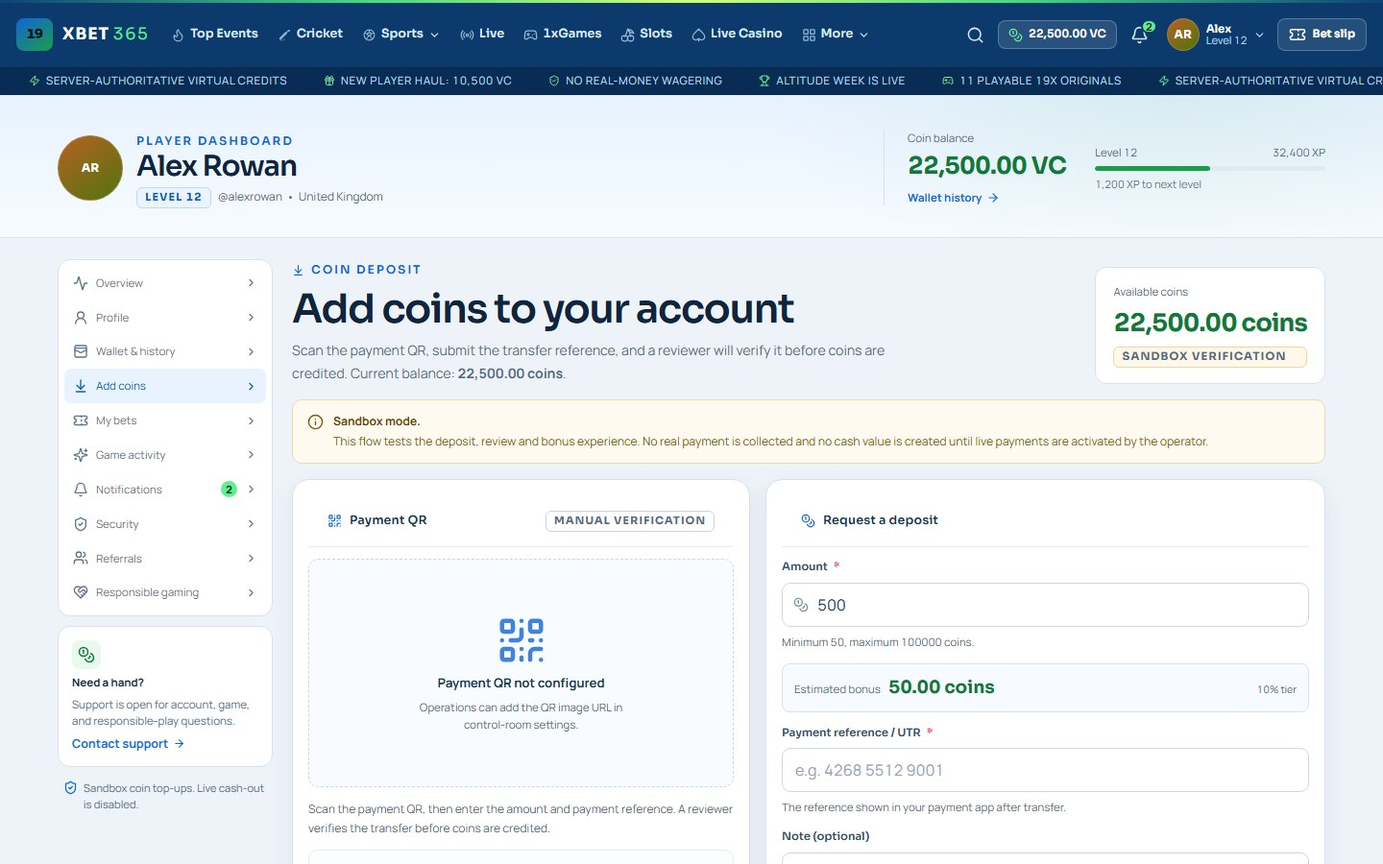
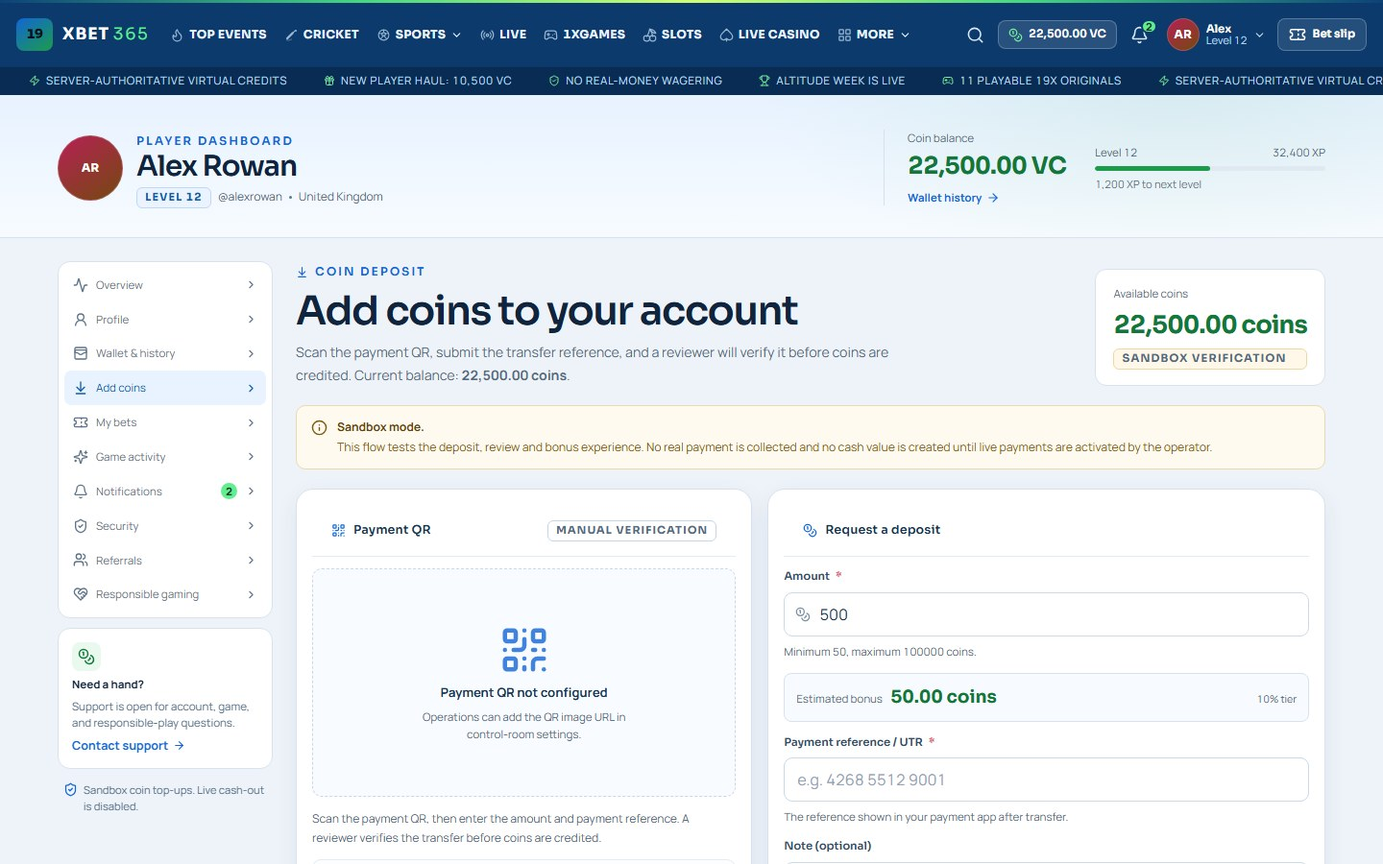
Tighten spacing rhythm, bold navigation and Master-only credentials
Standardises public and admin spacing, makes the desktop navigation bold uppercase like the reference, and restricts staff login issuance to Master Admin while allowing scoped administrators to manage users and the game catalogue. Refreshes screenshots and access/security evidence.

diff --git a/frontend/src/pages/admin/Accounts.tsx b/frontend/src/pages/admin/Accounts.tsx
@@ -8,7 +8,7 @@ import { api } from "../../lib/api";
 import type { AdminAccount } from "../../types";
 import { useAuth } from "../../state/AuthContext";
 import { useToast } from "../../state/ToastContext";
-import { Avatar, Badge, Button, EmptyState, ErrorState, Field, Input, Modal, Select, Skeleton, Textarea } from "../../components/UI";
+import { Avatar, Badge, Button, CopyButton, EmptyState, ErrorState, Field, Input, Modal, Select, Skeleton, Textarea } from "../../components/UI";
 import { AdminHeader, AdminScopePill } from "./AdminLayout";
 import { classNames, dateShort, number, vc } from "../../lib/format";
 
@@ -40,12 +40,9 @@ export function AdminAccountsPage() {
   const [actionError, setActionError] = useState<string | null>(null);
   const [invitations, setInvitations] = useState<{ id: string; email: string; display_name: string; role_code: string; status: string; created_at: string; expires_at: string; parent_name: string; invited_by_name: string; role_name: string }[]>([]);
 
-  const inviteRoles = useMemo(() => {
-    if (user?.role === "master_admin") return ["admin", "sub_admin", "agent", "player"];
-    if (user?.role === "admin") return ["sub_admin", "agent", "player"];
-    if (user?.role === "sub_admin") return ["agent", "player"];
-    return ["player"];
-  }, [user?.role]);
+  const inviteRoles = useMemo(() => (
+    user?.role === "master_admin" ? ["admin", "sub_admin", "agent", "player"] : []
+  ), [user?.role]);
 
   const load = async () => {
     setLoading(true);
@@ -155,8 +152,9 @@ export function AdminAccountsPage() {
         kicker="Account operations"
         title="Accounts & access"
         body="Search the scoped network, manage restrictions, and record every virtual-credit adjustment."
-        actions={<><AdminScopePill /><Button variant="lime" size="sm" icon={<UserPlus size={15} />} onClick={() => { setInviteOpen(true); setInviteResult(null); setActionError(null); }}>Create account</Button></>}
+        actions={<><AdminScopePill />{isMaster && <Button variant="lime" size="sm" icon={<UserPlus size={15} />} onClick={() => { setInviteOpen(true); setInviteResult(null); setActionError(null); }}>Issue credentials</Button>}</>}
       />
+      {!isMaster && <div className="admin-callout"><ShieldCheck size={17} /><div><strong>Staff credentials are issued by Master Admin.</strong><span>You can manage accounts and game operations within your authorized branch; creating new staff logins is restricted to the Master Admin.</span></div></div>}
       <div className="admin-toolbar panel">
         <form className="admin-search" onSubmit={(event) => { event.preventDefault(); setPage(1); setAppliedQuery(query); }}>
           <Search size={16} /><Input value={query} onChange={(event) => setQuery(event.target.value)} placeholder="Search name, email, username or referral code" aria-label="Search accounts" />
@@ -200,14 +198,14 @@ export function AdminAccountsPage() {
         )}
       </div>
 
-      <section className="panel invitations-panel">
-        <div className="panel-head"><span><Mail size={15} /> Pending invitations</span><Button variant="ghost" size="sm" onClick={() => { setInviteOpen(true); setInviteResult(null); }} icon={<UserPlus size={14} />}>New invitation</Button></div>
+      {isMaster && <section className="panel invitations-panel">
+        <div className="panel-head"><span><Mail size={15} /> Pending invitations</span><Button variant="ghost" size="sm" onClick={() => { setInviteOpen(true); setInviteResult(null); setActionError(null); }} icon={<UserPlus size={14} />}>Issue credentials</Button></div>
         {!invitations.length ? <p className="muted-small">No invitations recorded in your scope.</p> : (
           <div className="data-table-wrap"><table className="data-table"><thead><tr><th>Invitee</th><th>Role</th><th>Invited by</th><th>Expires</th><th>Status</th><th /></tr></thead><tbody>
             {invitations.map((item) => <tr key={item.id}><td><strong>{item.display_name}</strong><span className="row-sub">{item.email}</span></td><td><Badge tone="outline">{item.role_name}</Badge></td><td className="muted-cell">{item.invited_by_name}</td><td className="muted-cell">{dateShort(item.expires_at)}</td><td><span className={classNames("status-pill", item.status)}>{item.status}</span></td><td>{item.status === "pending" && <button className="text-btn" onClick={() => revokeInvitation(item.id)}>Revoke</button>}</td></tr>)}
           </tbody></table></div>
         )}
-      </section>
+      </section>}
 
       <Modal open={!!selected} onClose={() => setSelected(null)} title={selected ? `Manage ${selected.displayName}` : "Manage account"} wide footer={<Button variant="secondary" onClick={() => setSelected(null)}>Close</Button>}>
         {selected && (
@@ -246,23 +244,25 @@ export function AdminAccountsPage() {
         )}
       </Modal>
 
-      <Modal open={inviteOpen} onClose={() => setInviteOpen(false)} title="Create account / invitation" footer={<Button variant="secondary" onClick={() => setInviteOpen(false)}>Close</Button>}>
+      <Modal open={inviteOpen} onClose={() => setInviteOpen(false)} title="Issue staff credentials" footer={<Button variant="secondary" onClick={() => setInviteOpen(false)}>Close</Button>}>
         {inviteResult ? (
           <div className="invite-result">
             <span className="success-icon"><Check size={22} /></span>
-            <h3>Temporary credentials</h3>
-            <p>Share these through an approved secure channel. The temporary password is shown once.</p>
+            <h3>Account credentials</h3>
+            <p>Give these credentials to the staff member through an approved secure channel. The temporary password is shown once.</p>
             <div className="credential-box"><span>{inviteResult.email}</span><strong>{inviteResult.temporaryPassword}</strong></div>
-            <Button variant="lime" size="sm" onClick={() => { setInviteResult(null); setInvite({ email: "", displayName: "", role: "player" }); }}>Create another</Button>
+            <CopyButton value={`${inviteResult.email} / ${inviteResult.temporaryPassword}`} label="Copy credentials" />
+            <Button variant="lime" size="sm" onClick={() => { setInviteResult(null); setInvite({ email: "", displayName: "", role: "player" }); }}>Issue another</Button>
           </div>
         ) : (
           <form className="invite-form" onSubmit={doInvite}>
+            <div className="invite-scope-note"><ShieldCheck size={15} /><span>Only Master Admin can create staff logins. The account is created immediately and the member can sign in with the generated credentials.</span></div>
             <Field label="Display name" required><Input value={invite.displayName} onChange={(event) => setInvite({ ...invite, displayName: event.target.value })} placeholder="Full name" minLength={2} required /></Field>
-            <Field label="Email" required><Input type="email" value={invite.email} onChange={(event) => setInvite({ ...invite, email: event.target.value })} placeholder="person@example.com" required /></Field>
+            <Field label="Email / login ID" required><Input type="email" value={invite.email} onChange={(event) => setInvite({ ...invite, email: event.target.value })} placeholder="person@example.com" required /></Field>
             <Field label="Role" required><Select value={invite.role} onChange={(event) => setInvite({ ...invite, role: event.target.value })}>{inviteRoles.map((item) => <option key={item} value={item}>{item.replace("_", " ")}</option>)}</Select></Field>
             {actionError && <div className="form-error">{actionError}</div>}
-            <Button variant="lime" loading={inviteBusy} type="submit" icon={<UserPlus size={15} />}>Create invitation</Button>
-            <p className="form-note">Invitees receive their role immediately but must change the temporary password after signing in. Role escalation is blocked by the server.</p>
+            <Button variant="lime" loading={inviteBusy} type="submit" icon={<UserPlus size={15} />}>Generate credentials</Button>
+            <p className="form-note">The temporary password must be changed after the first sign-in. Role escalation is blocked by the server.</p>
           </form>
         )}
       </Modal>

diff --git a/frontend/src/styles/bookmaker.css b/frontend/src/styles/bookmaker.css
@@ -40,7 +40,7 @@
 .bookmaker .header-shell { gap: 14px; }
 .bookmaker .logo-word { color: #ffffff; letter-spacing: .07em; }
 .bookmaker .logo-word span { color: #62ed91; }
-.bookmaker .nav-link { color: #d9e9f7; padding: 0 9px; }
+.bookmaker .nav-link { color: #eaf4ff; padding: 0 8px; font-size: .75rem; font-weight: 700; letter-spacing: .03em; text-transform: uppercase; }
 .bookmaker .nav-link:hover, .bookmaker .nav-link.active { color: #ffffff; }
 .bookmaker .nav-link .nav-icon { color: #b7d2ea; }
 .bookmaker .nav-link.active .nav-icon { color: #62ed91; }
@@ -654,7 +654,7 @@
 .bookmaker .deposit-notice.warning strong { color: #7d1d2c; }
 .bookmaker .deposit-grid { display: grid; grid-template-columns: minmax(0, .9fr) minmax(0, 1.1fr); gap: 16px; }
 .bookmaker .deposit-payment, .bookmaker .deposit-form-panel { padding: 16px; }
-.bookmaker .deposit-payment .panel-head, .bookmaker .deposit-form-panel .panel-head { margin-bottom: 12px; }
+.bookmaker .deposit-payment .panel-head, .bookmaker .deposit-form-panel .panel-head { margin-bottom: 12px; flex-wrap: wrap; gap: 6px; }
 .bookmaker .qr-frame { min-height: 238px; display: grid; place-items: center; border: 1px dashed #c7d8e8; border-radius: 10px; background: #f8fbff; padding: 12px; }
 .bookmaker .qr-frame img { width: min(100%, 230px); height: auto; display: block; border-radius: 8px; }
 .bookmaker .qr-placeholder { display: grid; justify-items: center; gap: 7px; text-align: center; color: #526a82; padding: 20px; }
@@ -819,10 +819,23 @@
 .bookmaker.auth-page .success-panel { background: #f2fbf4; border-color: #bfe4c9; }
 .bookmaker.auth-page .success-panel p { color: #526a82; }
 
-@media (max-width: 1400px) {
-  .bookmaker .nav-link { padding: 0 6px; font-size: .72rem; gap: 4px; }
+/* Consistent 8px rhythm for the public surfaces */
+.bookmaker .home-shell { padding-top: 32px; }
+.bookmaker .home-section { margin-top: 48px; }
+.bookmaker .quick-strip { gap: 10px; padding: 10px; }
+.bookmaker .game-grid { gap: 16px; }
+.bookmaker .sports-shell { gap: 16px; padding: 24px 0 64px; }
+.bookmaker .account-shell { gap: 24px; padding: 24px 0 64px; }
+.bookmaker .section-heading { gap: 24px; margin-bottom: 24px; }
+.bookmaker .deposit-page { gap: 20px; }
+
+@media (max-width: 1420px) {
+  .bookmaker .nav-link { padding: 0 5px; font-size: .68rem; gap: 4px; letter-spacing: .02em; }
   .bookmaker .nav-link .nav-icon { width: 13px; height: 13px; }
   .bookmaker .header-balance { display: none; }
+}
+@media (max-width: 560px) {
+  .bookmaker .page-shell, .bookmaker .narrow-shell { width: calc(100% - 32px); }
 }
 @media (max-width: 900px) {
   .bookmaker .header-shell { width: calc(100% - 20px); }

diff --git a/backend/src/routes/admin.js b/backend/src/routes/admin.js
@@ -449,7 +449,7 @@ router.post("/accounts/:id/revoke-sessions", requirePermission("security.view"),
 });
 
 // Staff, invitations ----------------------------------------------------------
-router.post("/staff", requirePermission("network.manage"), async (req, res, next) => {
+router.post("/staff", requireMaster, async (req, res, next) => {
   try {
     const email = String(req.body?.email || "").trim().toLowerCase();
     const displayName = String(req.body?.displayName || "").trim().slice(0, 60);
@@ -505,7 +505,7 @@ router.post("/staff", requirePermission("network.manage"), async (req, res, next
   }
 });
 
-router.get("/invitations", requirePermission("network.manage"), async (req, res, next) => {
+router.get("/invitations", requireMaster, async (req, res, next) => {
   try {
     const scope = await scoped(req);
     const result = await query(
@@ -526,7 +526,7 @@ router.get("/invitations", requirePermission("network.manage"), async (req, res,
   }
 });
 
-router.post("/invitations/:id/revoke", requirePermission("network.manage"), async (req, res, next) => {
+router.post("/invitations/:id/revoke", requireMaster, async (req, res, next) => {
   try {
     const scope = await scoped(req);
     const result = await withTransaction(async (client) => {

diff --git a/frontend/src/styles/admin.css b/frontend/src/styles/admin.css
@@ -528,3 +528,13 @@
 .admin-callout > div { display: grid; gap: 2px; }
 .admin-callout strong { color: #fff; font-size: .8rem; }
 .admin-callout span { color: var(--muted); font-size: .72rem; line-height: 1.5; }
+
+/* Spacing rhythm */
+.admin-page { gap: 20px; }
+.admin-page-head { gap: 24px; }
+.admin-stat-grid { gap: 14px; }
+.admin-dashboard-grid { gap: 16px; }
+
+.invite-scope-note { display: flex; align-items: flex-start; gap: 8px; padding: 10px 11px; border: 1px solid rgba(201,255,99,.18); border-radius: 8px; background: rgba(201,255,99,.04); color: var(--muted); font-size: .7rem; line-height: 1.5; }
+.invite-scope-note svg { flex: 0 0 auto; color: var(--lime); margin-top: 1px; }
+.invite-result .copy-btn, .invite-result .btn { margin-top: 2px; }

diff --git a/backend/db/seed.js b/backend/db/seed.js
@@ -32,7 +32,7 @@ const ROLES = [
     permissions: [
       "network.view.scope", "network.manage", "accounts.create.subadmin", "accounts.create.agent",
       "accounts.create.player", "accounts.suspend", "accounts.restore", "credits.adjust",
-      "games.view", "content.manage", "promotions.manage", "support.view", "support.manage",
+      "games.view", "games.manage", "content.manage", "promotions.manage", "support.view", "support.manage",
       "security.view", "audit.view.scope", "transfers.approve", "reports.view.scope",
       "notifications.broadcast", "system.view"
     ]

diff --git a/docs/19XBET365_HANDOFF.md b/docs/19XBET365_HANDOFF.md
@@ -9,6 +9,7 @@ A complete, independently branded virtual-credit gaming foundation with:
 - 11 server-authoritative playable 19X Originals;
 - registration/login/account lifecycle, virtual wallet, bet history, game activity, notifications, security, referrals, responsible-play tools, support, help and legal content;
 - Master Admin and delegated staff control room with scoped hierarchy, RBAC, credits, support, transfers, catalogue, content, audit, settings and health;
+- Master-only staff credential issuance with one-time login ID/password handoff; administrators can manage scoped users and games but cannot create staff logins or access Master-only settings, roles, deposits and credential controls;
 - PostgreSQL schema/seed, transactional wallet, immutable audit chain, settled-round immutability, session auth, rate limiting and a WebSocket activity channel;
 - server demo-settlement worker for 1X2 singles/accumulators, with generated final scores, notifications, wallet credits and audit events;
 - sandbox deposit/QR-request flow with Master Admin verification, configurable percentage bonuses, wallet ledger entries, notifications and audit events; live collection is hard-gated;
@@ -91,7 +92,7 @@ New registrations receive 10,500 VC. The seeded player starts at 22,500 VC with 
 ## Evidence inventory
 
 - Reference research screenshots are retained locally and excluded from the public repository; the comparison notes live in `docs/VISUAL_COMPARISON_REPORT.md`.
-- Product desktop captures: `capture/product/home-1440.jpeg`, `sports-1440.jpeg`, `live-1440.jpeg`, `casino-1440.jpeg`, `instant-1440.jpeg`, `dice-1440.jpeg`, `account-1440.jpeg`, `wallet-1440.jpeg`, `deposit-1440.jpeg`, `bets-1440.jpeg`, `promotions-1440.jpeg`, `tournaments-1440.jpeg`, `help-1440.jpeg`, `support-1440.jpeg`, `login-1440.jpeg`, `register-1440.jpeg`, `admin-dashboard-1440.jpeg`, `admin-deposits-1440.jpeg`.
+- Product desktop captures: `capture/product/home-1440.jpeg`, `sports-1440.jpeg`, `live-1440.jpeg`, `casino-1440.jpeg`, `instant-1440.jpeg`, `dice-1440.jpeg`, `account-1440.jpeg`, `wallet-1440.jpeg`, `deposit-1440.jpeg`, `bets-1440.jpeg`, `promotions-1440.jpeg`, `tournaments-1440.jpeg`, `help-1440.jpeg`, `support-1440.jpeg`, `login-1440.jpeg`, `register-1440.jpeg`, `admin-dashboard-1440.jpeg`, `admin-accounts-1440.jpeg`, `admin-deposits-1440.jpeg`.
 - Product mobile captures: `capture/product/home-390.jpeg`, `sports-390.jpeg`, `casino-390.jpeg`, `dice-390.jpeg`, `wallet-390.jpeg`, `deposit-390.jpeg`, `login-390.jpeg`, `admin-dashboard-390.jpeg`.
 - Reproducible capture: `scripts/capture-screenshots.mjs` (headless Edge, real API login, 1440×900 and 390×844).
 - Automated tests: `scripts/api-smoke.mjs`, `scripts/game-smoke.mjs`, `scripts/security-smoke.mjs`, `scripts/settlement-smoke.mjs`, `scripts/referral-smoke.mjs`.

diff --git a/docs/END_TO_END_TEST_REPORT.md b/docs/END_TO_END_TEST_REPORT.md
@@ -13,8 +13,8 @@
 | `scripts/settlement-smoke.mjs` | Passed across both settlement branches: two singles and a two-fold accumulator settled from generated final scores; winning/losing payouts and wallet balance reconciled | console output |
 | `scripts/deposit-smoke.mjs` | Passed: sandbox request, admin approval, 15% tier bonus, deposit/bonus ledger, cancellation, rejection and live-collection activation gate | console output |
 | `scripts/referral-smoke.mjs <code>` | Passed: referral registration starts 10,500; referred player's first dice round receives 1,000 VC; referee balance reflects reward | console output |
-| `scripts/capture-screenshots.mjs` | Passed: 26 product captures across 1440×900 and 390×844, player and Master Admin sessions | `capture/product/` |
-| Frontend `tsc --noEmit && vite build` | Passed | Vite production build, 1,649 modules |
+| `scripts/capture-screenshots.mjs` | Passed: 27 product captures across 1440×900 and 390×844, player and Master Admin sessions | `capture/product/` |
+| Frontend `tsc --noEmit && vite build` | Passed | Vite production build, 1,650 modules |
 | Playwright real-user journey | Passed | 32/32 checks across the logged-out game gate, registration, bet placement, Dice Roll, wallet, bets, support, mobile dialogs, auth and admin |
 | Playwright deposit journey | Passed | 11/11 checks: sandbox notice, QR placeholder, request, pending state, admin approval, bonus ledger and balance update |
 | Lighthouse desktop audit | Passed | 100 accessibility / 100 best practices / 100 SEO on home, sports, casino, login, account, wallet, deposit, support, promotions, tournaments, help, game detail, register and admin |
@@ -84,7 +84,7 @@ The demo database was reseeded after this verification pass, so the handoff star
 ### 8. Evidence capture
 
 - `scripts/capture-screenshots.mjs` logs in through the real API, sets viewport metrics through DevTools, captures desktop player pages, mobile pages, signed-out auth pages and the Master Admin control room.
-- All 26 captures loaded real API data; interactive spot checks of the captured routes showed no console errors.
+- All 27 captures loaded real API data; interactive spot checks of the captured routes showed no console errors.
 - Demo identity and support addresses were cleaned from the legacy `astraplay.io` domain to `19xbet365.test` in seed, UI shortcuts, existing rows and documentation.
 
 ## Defects found and fixed

diff --git a/docs/ADMIN_ARCHITECTURE.md b/docs/ADMIN_ARCHITECTURE.md
@@ -40,6 +40,7 @@ Important permissions:
 | Hierarchy | `/admin/network` | recursive tree, role/status/balance, search | actor branch |
 | Accounts | `/admin/accounts` | search/filter/paginate, manage modal | actor branch |
 | Account actions | modal | suspend/restore, credit adjustment, role change, revoke sessions | target must be descendant; rank checks |
+| Staff credentials | `/admin/accounts` modal | create account/login ID, one-time temporary password, copy handoff; staff account is created immediately | **Master Admin only** |
 | Roles | `/admin/roles` | permission matrix, save per role | Master only |
 | Game catalogue | `/admin/games` | status, featured, badge/copy; no outcome edits | `games.view/manage` |
 | Content | `/admin/content` | page title/body/status; promotion title/terms/active | `content.manage`, `promotions.manage` |
@@ -58,7 +59,7 @@ Important permissions:
 - Master Admin cannot be suspended, demoted, or role-changed through the API.
 - Credit adjustments are limited to player accounts and require a reason of at least 8 characters.
 - Target accounts are checked against the actor's recursive scope.
-- Invitations can only grant roles below the inviter's authority.
+- Only the Master Admin can create any staff login or issue a temporary password. Administrators can manage scoped users and the game catalogue but cannot create staff accounts, issue credentials, change roles, open settings, review deposits or access other Master-only controls.
 - Transfer approval checks destination branch scope and records a reason.
 - All privileged changes append an audit event with actor, action, entity, before/after, IP, and hash chain.
 - Audit and settled rounds are protected by PostgreSQL triggers.
@@ -74,6 +75,8 @@ Important permissions:
 - `/api/admin/roles` and `/api/admin/transfers` return permission denied.
 - A player gets `staff_required` for `/api/admin/overview`.
 - Anonymous admin access is `401`.
+- Master credential issuance returns a one-time email/password; the new admin can access scoped accounts and the game catalogue but receives `403` for settings, roles and further staff issuance.
+- A branch admin is blocked from staff credential creation by `requireMaster`.
 
 ## Files
 

diff --git a/docs/UI_UX_AUDIT.md b/docs/UI_UX_AUDIT.md
@@ -44,6 +44,12 @@ The reference is attractive because it is **predictable**, not because it is lar
 - Darkened secondary ink from `#71869b`/`#7c90a4` to `#526a82`; positive amounts use `#14773a` instead of the lower-contrast lime text.
 - Increased mobile odds targets to 42px and kept all controls labelled in full words rather than unexplained abbreviations.
 
+### Navigation and spacing
+- Desktop navigation now follows the reference’s bold, compact hierarchy: **700 weight, uppercase labels, tightened letter spacing**, icon alignment and an emerald active underline.
+- Standardised the public vertical rhythm around 8px increments: 32px shell top, 48px section separation, 24px section-heading gap, 16px card grid gaps, 24px sports/account shell spacing and 16px mobile gutters.
+- Admin surfaces use a slightly denser rhythm (20px page gap, 14px stat grid, 16px dashboard gap) while retaining the distinct dark control-room theme.
+- Hero spacing was compressed so “Live right now” appears within the first desktop viewport; the mobile hero keeps its stacked layout without a forced minimum height.
+
 ### Navigation and icons
 - Original sport glyphs replace reused generic Lucide marks.
 - Category icons added to desktop nav, mega-menus, mobile drawer and casino filter chips.
@@ -90,6 +96,8 @@ Passed checks included:
 - Mobile drawer opens as a modal, traps focus, closes on Escape and restores focus.
 - Bet slip locks page scroll on mobile, closes on Escape and unlocks.
 - Demo player login, account security, Master Admin dashboard and audit route all render.
+- Master Admin can issue a one-time staff email/password; the new admin can manage scoped accounts and games but is denied settings, roles and further credential issuance.
+- Branch Admin accounts cannot create staff logins.
 - No console or page errors during the run.
 
 ## 4. Lighthouse verification

diff --git a/docs/PRODUCT_PARITY_MATRIX.md b/docs/PRODUCT_PARITY_MATRIX.md
@@ -46,7 +46,7 @@ Statuses: **Complete**, **Improved**, **Functionally incomplete**, **Integration
 | Master Admin dashboard | Global analytics/network | Metrics, series, alerts, audit chain, export | Complete | `admin/Dashboard.tsx` |
 | Delegated admin | Scoped admin dashboard | Same dashboard with server-derived scope | Complete | `getScopedAccountIds` |
 | Admin account management | Restrictions, credits, roles | Search, suspend/restore, credit, role, revoke sessions | Complete | Tested 200 response and ledger update |
-| Admin invitations | Invite roles | Temporary credentials, role limits, revoke | Complete | Password shown once |
+| Staff credentials | Invite/admin accounts | Master-only issuance, one-time login ID/password, copy handoff, revoke | Complete | Password shown once; admins cannot create staff logins |
 | Network visualization | Hierarchy tree | Recursive tree with role and balance | Complete | Scope verified via API |
 | Transfers | Request/approve network moves | Request/approve/reject workflow | Complete | Tested UI; server scope checks |
 | Game catalogue admin | Visibility/featured | Status, featured, copy controls | Complete | Outcomes/RTP not editable |

diff --git a/README.md b/README.md
@@ -134,7 +134,7 @@ Provider-required catalogue titles (live casino, provider slots, some virtuals) 
 
 - Global/scoped analytics from `parent_id` hierarchy, with no client-supplied scope trusted.
 - Account search, suspension/restoration, session revocation, virtual-credit adjustments, and Master-only role changes.
-- Invitations with temporary credentials; role escalation blocked by the server.
+- **Master-only staff credential issuance** with a one-time email/password handoff. Admins can manage scoped accounts and the game catalogue, but cannot create staff logins, change roles, open settings, review deposits or access other Master-only controls.
 - Game catalogue visibility/featured controls; outcomes and RTP are not editable.
 - Content pages, promotions, support tickets, transfer approvals, security events, audit chain verification, settings, and system health.
 - Master Admin account is protected from suspension, demotion, and deletion through the API.

diff --git a/docs/SECURITY_TEST_REPORT.md b/docs/SECURITY_TEST_REPORT.md
@@ -23,7 +23,13 @@ Run: `node scripts/security-smoke.mjs`
 | Agent `/admin/roles` | PASS | `403` permission denied |
 | Agent `/admin/transfers` | PASS | `403` permission denied |
 | Suspended account login | PASS | `403` rejected |
-| Audit count | PASS | 10 initial events |
+| Audit count | PASS | 10 initial events on clean seed |
+| Master issues staff credentials | PASS | `201`, one-time email + temporary password |
+| New admin can manage accounts | PASS | `200` scoped account list |
+| New admin can view/manage games | PASS | `200` game catalogue; `games.manage` granted |
+| New admin cannot open settings | PASS | `403` permission denied |
+| New admin cannot open roles | PASS | `403` permission denied |
+| New admin cannot issue staff credentials | PASS | `403` Master Admin authorization required |
 
 ## Database integrity checks
 
